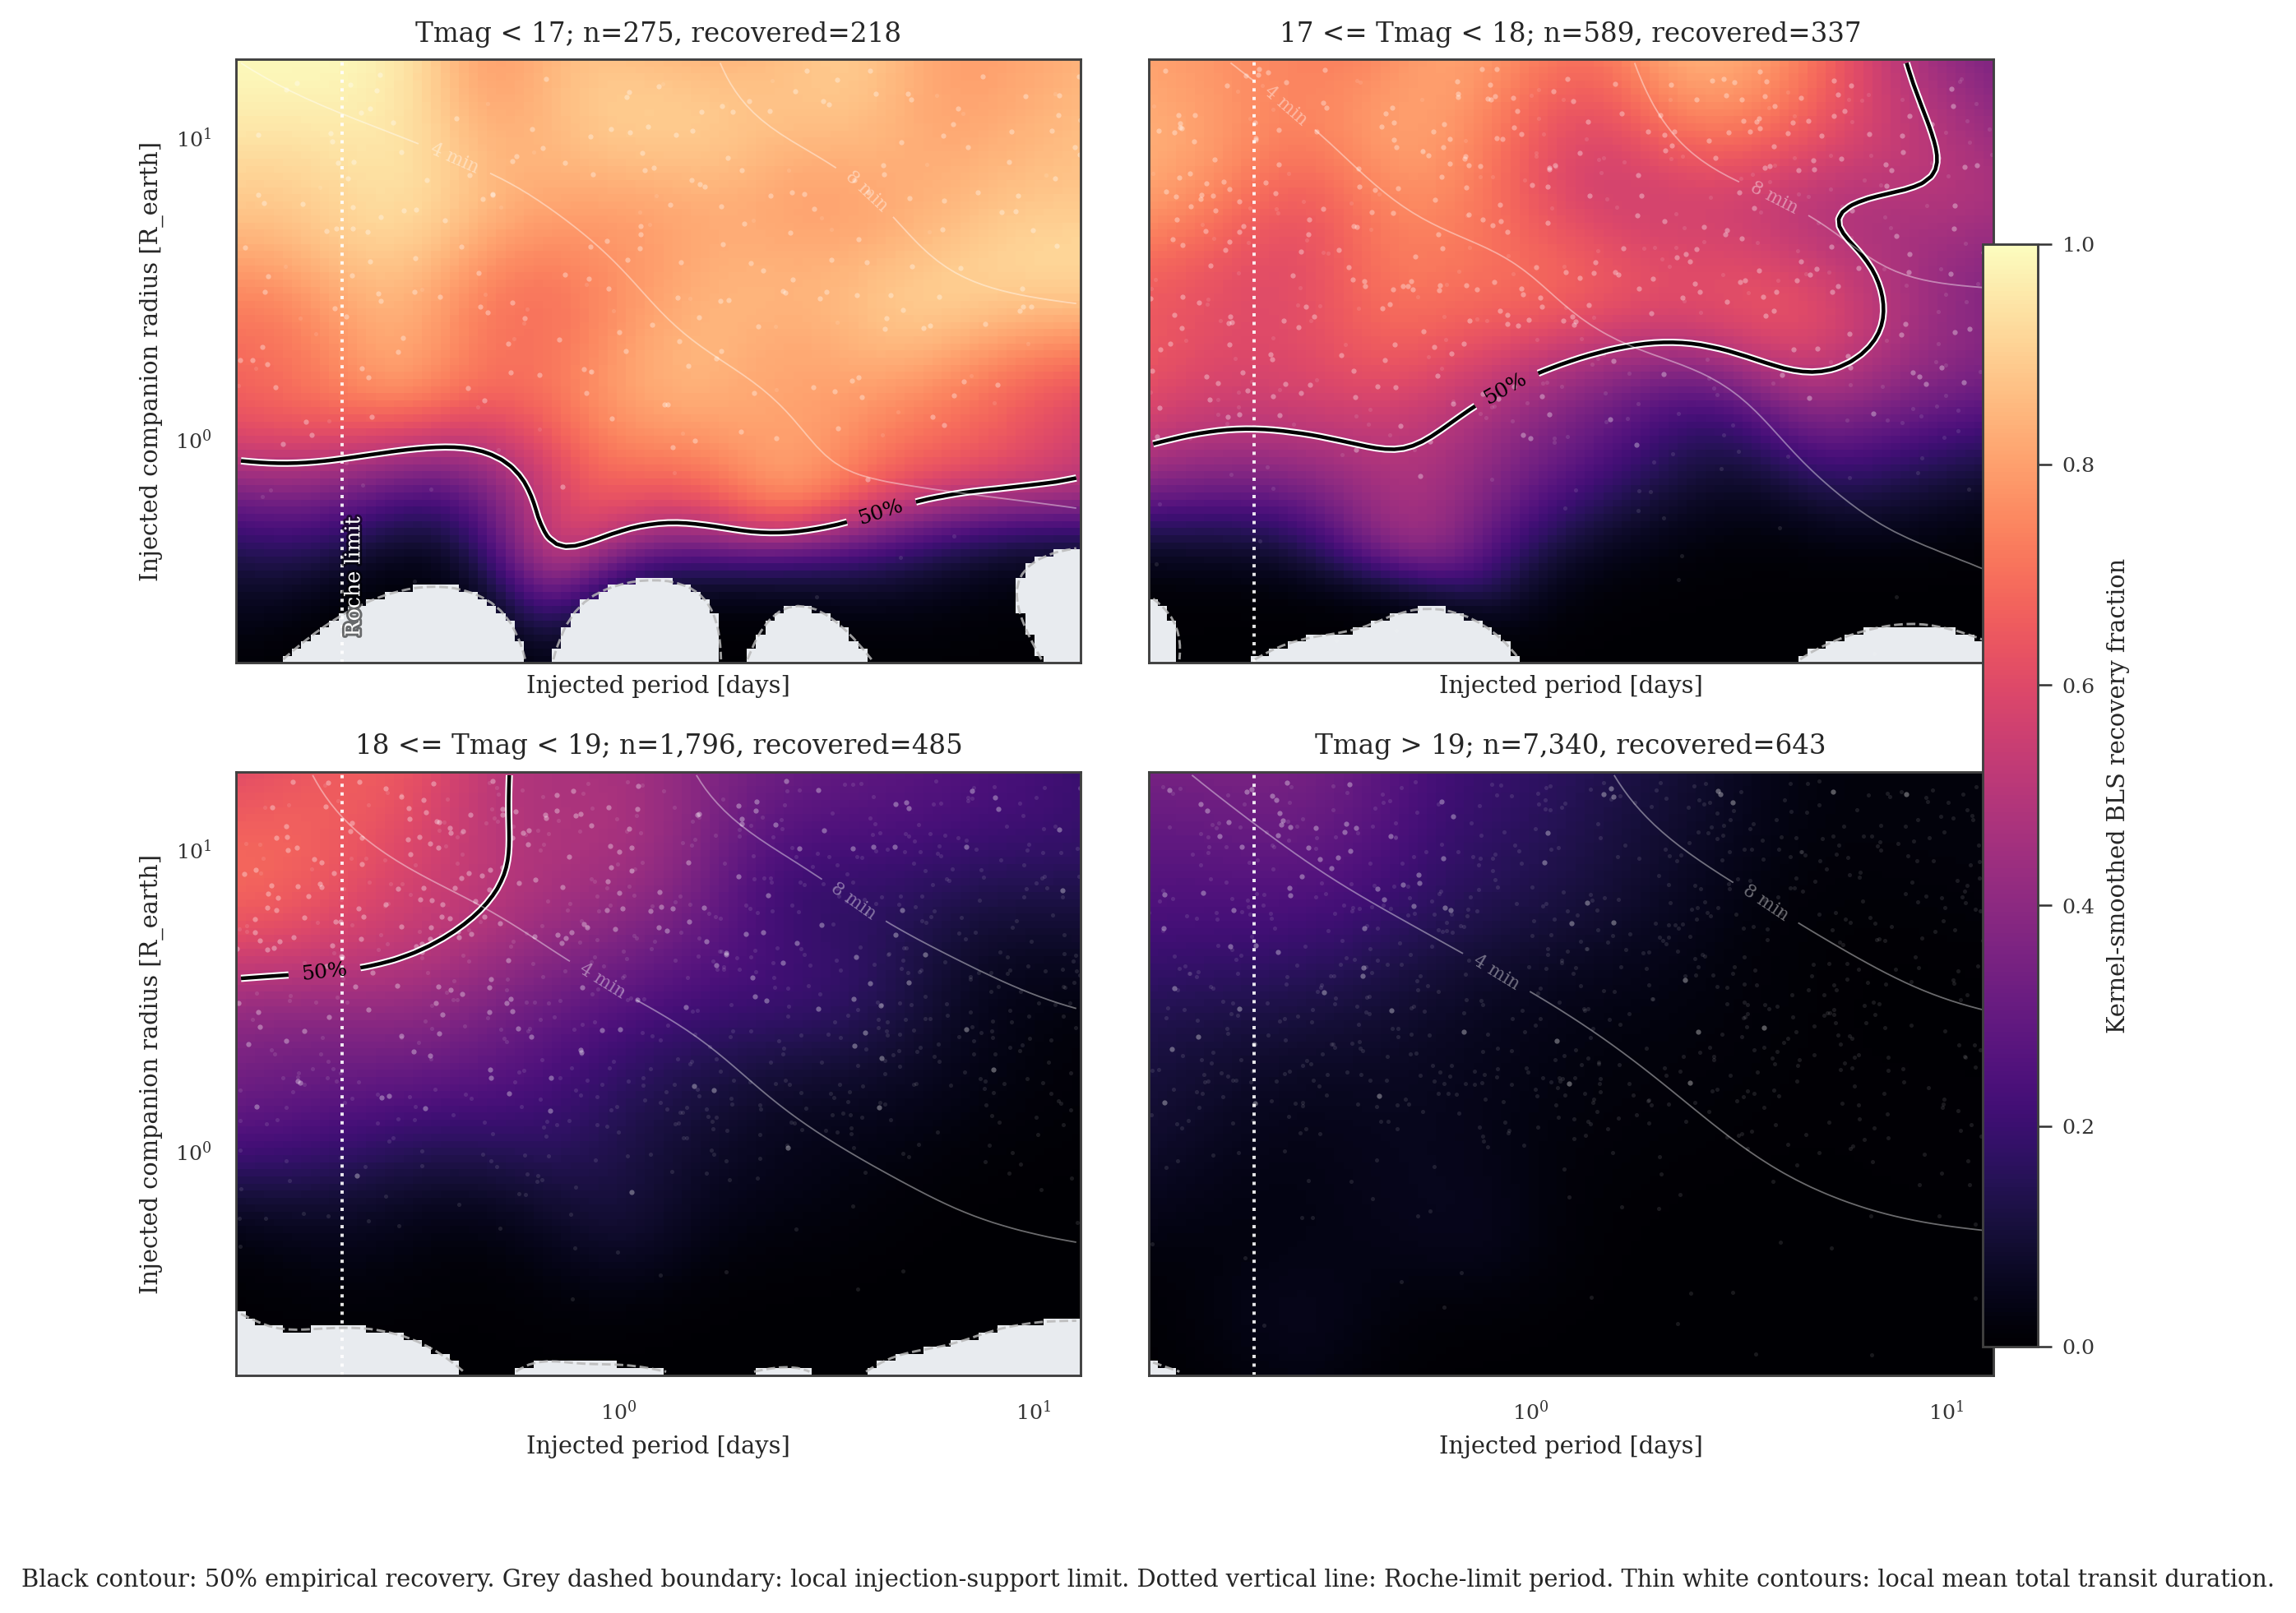
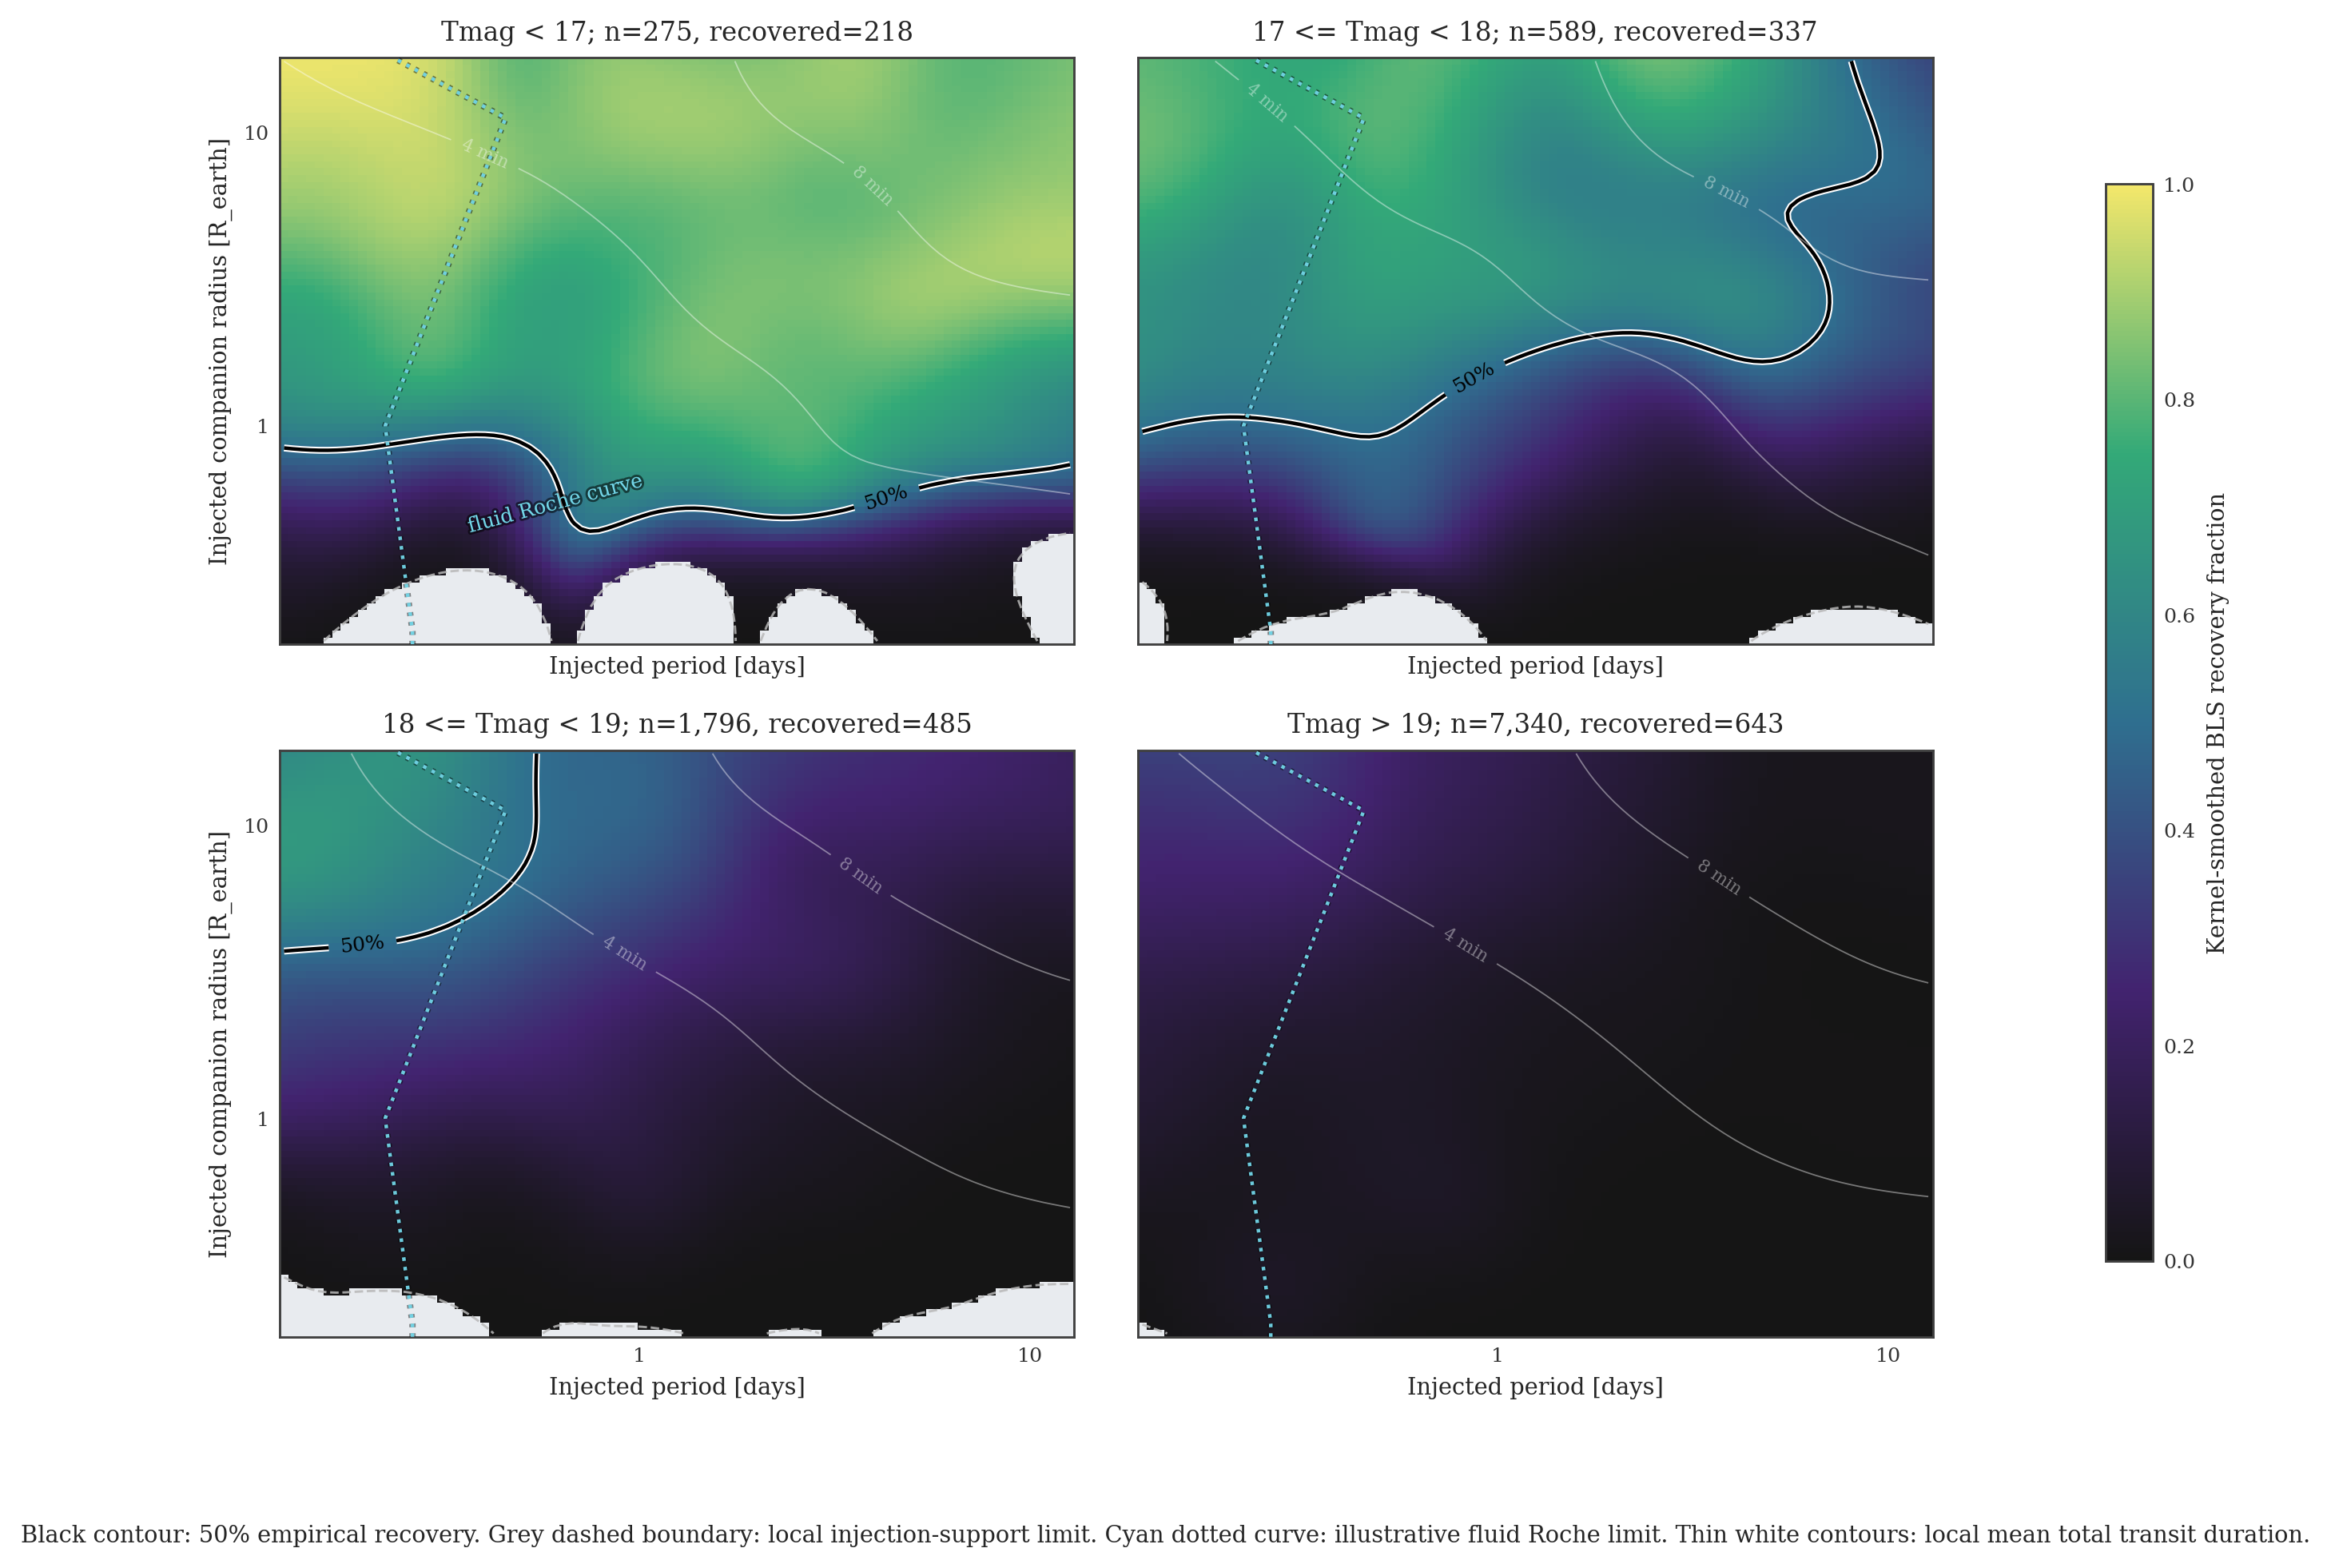
Refine physical recovery map styling

diff --git a/scripts/stage5_validation/plot_s56_duration_aware_recovery.py b/scripts/stage5_validation/plot_s56_duration_aware_recovery.py
@@ -40,6 +40,8 @@ DEFAULT_OUT_DIR = (
     / "reports/stage5_validation/s56_10k_predetrend_dense_bls_map_pdo/"
     / "duration_aware"
 )
+G_SI = 6.67430e-11
+FLUID_ROCHE_COEFFICIENT = 2.44
 
 
 def _json_default(value: Any) -> Any:
@@ -264,6 +266,58 @@ def _finite_minmax(values: np.ndarray) -> tuple[float, float] | None:
     if finite.size == 0:
         return None
     return float(np.nanmin(finite)), float(np.nanmax(finite))
+
+
+def _plain_log_tick(value: float, _pos: int | None = None) -> str:
+    if value <= 0 or not np.isfinite(value):
+        return ""
+    log_value = np.log10(value)
+    if not np.isclose(log_value, round(log_value), atol=1.0e-8):
+        return ""
+    if value < 1.0:
+        return f"{value:g}"
+    return f"{int(round(value))}"
+
+
+def _style_log_panel_ticks(ax: Any) -> None:
+    from matplotlib.ticker import FuncFormatter, LogLocator, NullFormatter
+
+    for axis in (ax.xaxis, ax.yaxis):
+        axis.set_major_locator(LogLocator(base=10.0, subs=(1.0,), numticks=4))
+        axis.set_major_formatter(FuncFormatter(_plain_log_tick))
+        axis.set_minor_locator(LogLocator(base=10.0, subs=np.arange(2, 10) * 0.1, numticks=32))
+        axis.set_minor_formatter(NullFormatter())
+    ax.tick_params(axis="both", which="both", direction="in", top=True, right=True)
+    ax.tick_params(axis="both", which="major", length=5.0, width=0.8)
+    ax.tick_params(axis="both", which="minor", length=2.8, width=0.6)
+
+
+def _approx_companion_density_g_cm3(radius_rearth: np.ndarray) -> np.ndarray:
+    """Illustrative density envelope used only for plotting a Roche curve.
+
+    Radius alone does not define a Roche limit. This envelope keeps small
+    bodies rocky, lowers the density toward Jupiter-like radii, and lets it
+    rise mildly into the brown-dwarf-radius regime.
+    """
+
+    radius = np.asarray(radius_rearth, dtype=float)
+    density = np.empty_like(radius)
+    rocky = radius <= 1.0
+    giant = (radius > 1.0) & (radius <= 11.2)
+    brown_dwarf = radius > 11.2
+
+    density[rocky] = 5.5 * np.clip(radius[rocky], 0.2, None) ** 0.2
+    density[giant] = 5.5 * radius[giant] ** (np.log(1.33 / 5.5) / np.log(11.2))
+    density[brown_dwarf] = 1.33 * (radius[brown_dwarf] / 11.2) ** (
+        np.log(5.0 / 1.33) / np.log(18.0 / 11.2)
+    )
+    return density
+
+
+def _fluid_roche_period_d(radius_rearth: np.ndarray) -> np.ndarray:
+    density_kg_m3 = _approx_companion_density_g_cm3(radius_rearth) * 1000.0
+    period_s = np.sqrt(3.0 * np.pi * FLUID_ROCHE_COEFFICIENT**3 / (G_SI * density_kg_m3))
+    return period_s / 86400.0
 
 
 def _kernel_recovery_surface_logxy(
@@ -588,6 +642,7 @@ def plot_publication_period_radius_recovery_map(df: pd.DataFrame, out_dir: Path)
     matplotlib.use("Agg")
     import matplotlib.pyplot as plt
     import matplotlib.patheffects as pe
+    from matplotlib.colors import LinearSegmentedColormap
 
     apply_twirl_style("full_page")
     tmag_bins = [
@@ -603,11 +658,17 @@ def plot_publication_period_radius_recovery_map(df: pd.DataFrame, out_dir: Path)
     sigma_period_dex = 0.16
     sigma_radius_dex = 0.18
 
-    cmap = plt.get_cmap("magma").copy()
+    cmap = LinearSegmentedColormap.from_list(
+        "twirl_recovery",
+        ["#151515", "#42236f", "#2f6f8f", "#33a978", "#f3e76b"],
+        N=256,
+    )
     cmap.set_bad("#e8ebef")
     fig, axes = plt.subplots(2, 2, figsize=(10.4, 8.1), sharex=True, sharey=True)
     mesh = None
     rows: list[dict[str, Any]] = []
+    roche_radius = np.geomspace(radius_edges[0], radius_edges[-1], 320)
+    roche_period = _fluid_roche_period_d(roche_radius)
     for idx, (label, mask) in enumerate(tmag_bins):
         ax = axes.ravel()[idx]
         sub = df[mask].copy()
@@ -618,7 +679,17 @@ def plot_publication_period_radius_recovery_map(df: pd.DataFrame, out_dir: Path)
         ax.set_yscale("log")
         ax.set_xlim(period_edges[0], period_edges[-1])
         ax.set_ylim(radius_edges[0], radius_edges[-1])
-        ax.axvline(0.216, color="white", linestyle=":", linewidth=1.1, alpha=0.90)
+        _style_log_panel_ticks(ax)
+        roche_line = ax.plot(
+            roche_period,
+            roche_radius,
+            color="#72d6e8",
+            linestyle=":",
+            linewidth=1.25,
+            alpha=0.95,
+            zorder=5,
+        )[0]
+        roche_line.set_path_effects([pe.Stroke(linewidth=2.2, foreground="black", alpha=0.45), pe.Normal()])
         if sub.empty:
             continue
         surface, effective_n, mean_duration = _kernel_recovery_surface_logxy(
@@ -641,26 +712,6 @@ def plot_publication_period_radius_recovery_map(df: pd.DataFrame, out_dir: Path)
             vmin=0.0,
             vmax=1.0,
             shading="auto",
-        )
-        sample = sub.sample(n=min(900, len(sub)), random_state=560 + idx)
-        recovered = sample["any_exact_or_harmonic_recovered"].fillna(False).astype(bool)
-        ax.scatter(
-            sample.loc[~recovered, "truth_period_d"],
-            sample.loc[~recovered, "plot_radius_rearth"],
-            s=2.0,
-            c="white",
-            alpha=0.10,
-            linewidths=0,
-            rasterized=True,
-        )
-        ax.scatter(
-            sample.loc[recovered, "truth_period_d"],
-            sample.loc[recovered, "plot_radius_rearth"],
-            s=3.0,
-            c="white",
-            alpha=0.34,
-            linewidths=0,
-            rasterized=True,
         )
         if finite_masked is not None and finite_masked[0] <= 0.5 <= finite_masked[1]:
             contour = ax.contour(
@@ -728,26 +779,28 @@ def plot_publication_period_radius_recovery_map(df: pd.DataFrame, out_dir: Path)
     for ax in axes[:, 0]:
         ax.set_ylabel("Injected companion radius [R_earth]")
     roche_label = axes[0, 0].text(
-        0.219,
-        0.22,
-        "Roche limit",
-        rotation=90,
+        0.36,
+        0.42,
+        "fluid Roche curve",
+        rotation=15,
         ha="left",
         va="bottom",
-        color="white",
+        color="#72d6e8",
         fontsize=7,
     )
     roche_label.set_path_effects([pe.Stroke(linewidth=1.6, foreground="black", alpha=0.55), pe.Normal()])
     if mesh is not None:
-        cbar = fig.colorbar(mesh, ax=axes.ravel().tolist(), fraction=0.032, pad=0.018)
+        cax = fig.add_axes([0.935, 0.205, 0.022, 0.64])
+        cbar = fig.colorbar(mesh, cax=cax)
         cbar.set_label("Kernel-smoothed BLS recovery fraction")
-    fig.subplots_adjust(left=0.09, right=0.88, top=0.92, bottom=0.16, wspace=0.08, hspace=0.18)
+        cbar.ax.tick_params(direction="in", which="both")
+    fig.subplots_adjust(left=0.09, right=0.855, top=0.92, bottom=0.16, wspace=0.08, hspace=0.18)
     fig.text(
         0.5,
         0.035,
         (
             "Black contour: 50% empirical recovery. Grey dashed boundary: local injection-support limit. "
-            "Dotted vertical line: Roche-limit period. Thin white contours: local mean total transit duration."
+            "Cyan dotted curve: illustrative fluid Roche limit. Thin white contours: local mean total transit duration."
         ),
         ha="center",
         va="bottom",
@@ -1329,7 +1382,11 @@ def write_summary(
             "",
             "The fitted 50% boundary uses a physically constrained BLS proxy, `R_p^2 * sqrt(duration / period)`, plus `Tmag`. This gives a monotonic radius cutoff in period-duration space and avoids over-interpreting the correlated period-duration-radius sampling as independent physics.",
             "",
-            "The empirical publication map now uses four Tmag panels (`<17`, `17-18`, `18-19`, `>19`) and marginalizes over duration/impact parameter within each slice. Grey cells mean the kernel has too little local injection support; the grey dashed curve is the support boundary; the dotted vertical line marks the Roche-limit period; the black 50% contour is the empirical recovery boundary. Thin white contours are the local mean total transit duration in minutes for the accepted BATMAN injections, not an independent analytic edge-on duration curve.",
+            "The empirical publication map now uses four Tmag panels (`<17`, `17-18`, `18-19`, `>19`) and marginalizes over duration/impact parameter within each slice. Grey cells mean the kernel has too little local injection support; the grey dashed curve is the support boundary; the cyan dotted curve is an illustrative fluid Roche limit; the black 50% contour is the empirical recovery boundary. Thin white contours are the local mean total transit duration in minutes for the accepted BATMAN injections, not an independent analytic edge-on duration curve.",
+            "",
+            "The Roche curve is model-dependent because companion radius does not uniquely define companion density. The plotted curve uses a simple bulk-density envelope: rocky bodies at small radii, lower-density gas giants near Jupiter radius, and a mild density increase into the brown-dwarf-radius regime. It should be read as physical context, not a hard vetting threshold.",
+            "",
+            "The earlier small grey point overlay was only a random subsample of injected examples (`faint = missed`, `brighter = recovered`) drawn on top of the smoothed surface. It is removed from the publication-facing map because the support boundary and grid CSV carry the sample-support information more cleanly.",
             "",
             "Counts in the paper-style Tmag panels show whether the map is target-distribution-limited or bright-balanced:",
             "",

diff --git a/reports/stage5_validation/s56_10k_predetrend_dense_bls_map_pdo/duration_aware/summary.md b/reports/stage5_validation/s56_10k_predetrend_dense_bls_map_pdo/duration_aware/summary.md
@@ -18,7 +18,11 @@ LEO comparison input: `reports/stage5_validation/s56_10k_predetrend_small_pair_2
 
 The fitted 50% boundary uses a physically constrained BLS proxy, `R_p^2 * sqrt(duration / period)`, plus `Tmag`. This gives a monotonic radius cutoff in period-duration space and avoids over-interpreting the correlated period-duration-radius sampling as independent physics.
 
-The empirical publication map now uses four Tmag panels (`<17`, `17-18`, `18-19`, `>19`) and marginalizes over duration/impact parameter within each slice. Grey cells mean the kernel has too little local injection support; the grey dashed curve is the support boundary; the dotted vertical line marks the Roche-limit period; the black 50% contour is the empirical recovery boundary. Thin white contours are the local mean total transit duration in minutes for the accepted BATMAN injections, not an independent analytic edge-on duration curve.
+The empirical publication map now uses four Tmag panels (`<17`, `17-18`, `18-19`, `>19`) and marginalizes over duration/impact parameter within each slice. Grey cells mean the kernel has too little local injection support; the grey dashed curve is the support boundary; the cyan dotted curve is an illustrative fluid Roche limit; the black 50% contour is the empirical recovery boundary. Thin white contours are the local mean total transit duration in minutes for the accepted BATMAN injections, not an independent analytic edge-on duration curve.
+
+The Roche curve is model-dependent because companion radius does not uniquely define companion density. The plotted curve uses a simple bulk-density envelope: rocky bodies at small radii, lower-density gas giants near Jupiter radius, and a mild density increase into the brown-dwarf-radius regime. It should be read as physical context, not a hard vetting threshold.
+
+The earlier small grey point overlay was only a random subsample of injected examples (`faint = missed`, `brighter = recovered`) drawn on top of the smoothed surface. It is removed from the publication-facing map because the support boundary and grid CSV carry the sample-support information more cleanly.
 
 Counts in the paper-style Tmag panels show whether the map is target-distribution-limited or bright-balanced:
 

diff --git a/reports/stage5_validation/s56_20k_predetrend_physical_bright_bls_map_pdo/duration_aware/summary.md b/reports/stage5_validation/s56_20k_predetrend_physical_bright_bls_map_pdo/duration_aware/summary.md
@@ -18,7 +18,11 @@ LEO comparison input: `reports/stage5_validation/s56_10k_predetrend_small_pair_2
 
 The fitted 50% boundary uses a physically constrained BLS proxy, `R_p^2 * sqrt(duration / period)`, plus `Tmag`. This gives a monotonic radius cutoff in period-duration space and avoids over-interpreting the correlated period-duration-radius sampling as independent physics.
 
-The empirical publication map now uses four Tmag panels (`<17`, `17-18`, `18-19`, `>19`) and marginalizes over duration/impact parameter within each slice. Grey cells mean the kernel has too little local injection support; the grey dashed curve is the support boundary; the dotted vertical line marks the Roche-limit period; the black 50% contour is the empirical recovery boundary. Thin white contours are the local mean total transit duration in minutes for the accepted BATMAN injections, not an independent analytic edge-on duration curve.
+The empirical publication map now uses four Tmag panels (`<17`, `17-18`, `18-19`, `>19`) and marginalizes over duration/impact parameter within each slice. Grey cells mean the kernel has too little local injection support; the grey dashed curve is the support boundary; the cyan dotted curve is an illustrative fluid Roche limit; the black 50% contour is the empirical recovery boundary. Thin white contours are the local mean total transit duration in minutes for the accepted BATMAN injections, not an independent analytic edge-on duration curve.
+
+The Roche curve is model-dependent because companion radius does not uniquely define companion density. The plotted curve uses a simple bulk-density envelope: rocky bodies at small radii, lower-density gas giants near Jupiter radius, and a mild density increase into the brown-dwarf-radius regime. It should be read as physical context, not a hard vetting threshold.
+
+The earlier small grey point overlay was only a random subsample of injected examples (`faint = missed`, `brighter = recovered`) drawn on top of the smoothed surface. It is removed from the publication-facing map because the support boundary and grid CSV carry the sample-support information more cleanly.
 
 Counts in the paper-style Tmag panels show whether the map is target-distribution-limited or bright-balanced:
 

diff --git a/doc/twirl_progress_log.md b/doc/twirl_progress_log.md
@@ -358,6 +358,7 @@ _No entries yet. Blocked on photometric QA (1.6)._
 - `2026-06-24`: Revised the paper-style period-radius empirical map to a `2 x 2` Tmag split (`<17`, `17-18`, `18-19`, `>19`) and documented that the thin white contours are local mean total transit duration for accepted BATMAN injections, not a separate analytic edge-on curve. The current `10k` table is still sparse in the bright panels (`275` rows at `Tmag < 17`, `589` at `17-18`), so this is now the audit/preview plot rather than the final publication map.
 - `2026-06-24`: Added target-bin sampling controls to the pre-detrend injector and a new PDO launcher [script](../scripts/stage5_validation/run_s56_predetrend_physical_bright_bls_map_pdo.sh) for the publication-grade map. The active PDO tmux job `twirl-s56-physical-bright-0624` is building `20,000` raw-flux pre-detrend BATMAN injections on a period-radius grid with transit-conditioned random impact parameters/inclinations, equal target sampling across `<17`, `17-18`, `18-19`, and `>19`, and the same small-pair `200k` BLS recovery path. To avoid PDO NFS full-tree walks, the run uses cached source HDF5 paths and a cached TIC/Tmag table derived from the previous `10k` injection manifest. Early log check: target bins have `226`, `458`, `1400`, and `5709` available cached targets with equal draw probability; injection creation reached at least `400/20,000` accepted rows with no failed attempts on `pdogpu6`, then was moved to `pdogpu1` because `pdogpu6` was jammed. The first `pdogpu1` attempt was stopped at `~1,700/20,000` when a metadata audit found period-radius injections were recording central depth instead of impact-parameter-dependent geometric depth; the BATMAN light curves themselves were already impact-parameter aware. The corrected run restarted on `pdogpu1` at `2026-06-24T11:21:07-04:00` after deploying the depth-truth fix. Active remote log: `/pdo/users/tehan/TWIRL/logs/s56_predetrend_physical_bright_bls_map_pdo_pdogpu1.log`.
 - `2026-06-24`: Completed the bright-balanced physical `20k` PDO run on `pdogpu1`. Injection creation accepted `20,000/20,000` BATMAN period-radius-grid rows with transit-conditioned random impact parameters/inclinations; the BLS pass ran as `200` restartable chunks using `6` concurrent chunk jobs and merged cleanly into [recovery table](../reports/stage5_validation/s56_20k_predetrend_physical_bright_bls_map_pdo/small_pair_200k/injection_bls_recoveries.csv) with `20,000` rows. Final BLS modes: `7,227` strict top-1 recoveries, `296` exact top-N recoveries, `387` top-N harmonic matches, `12,089` peak mismatches, and `1` too-few-cadences row (`7,910/20,000 = 39.6%` exact/top-N/harmonic total). Tmag-bin counts are now balanced: `<17`: `5,020` rows / `3,154` recovered (`62.8%`), `17-18`: `4,994` / `2,273` (`45.5%`), `18-19`: `5,026` / `1,625` (`32.3%`), `>19`: `4,960` / `858` (`17.3%`). The publication-facing [period-radius map](../reports/stage5_validation/s56_20k_predetrend_physical_bright_bls_map_pdo/duration_aware/period_radius_empirical_recovery_publication.png) removes the sparse bright-panel problem from the `10k` preview and explains the black 50% contour, Roche-limit line, support boundary, and local-duration contours in the footer. The local sync helper now excludes per-chunk scratch directories, leaving compact merged products and plots.
+- `2026-06-24`: Refined the paper-facing period-radius recovery map styling after visual review. The updated [20k PNG](../reports/stage5_validation/s56_20k_predetrend_physical_bright_bls_map_pdo/duration_aware/period_radius_empirical_recovery_publication.png) moves the colorbar clear of the panels, removes the previous random injection-point overlay, uses inward major/minor log ticks with plain `1` and `10` labels, switches to a custom dark-purple/teal/green/yellow recovery colormap, and replaces the single vertical Roche-period marker with an illustrative fluid-Roche curve based on an explicit radius-dependent density envelope. The matching [10k preview](../reports/stage5_validation/s56_10k_predetrend_dense_bls_map_pdo/duration_aware/period_radius_empirical_recovery_publication.png) was re-rendered with the same code path for consistency.
 
 **Next:** Human-check the current `1k` LEO-only injection queue, port the `wd_review_high_purity` preset into the WD LEO fork as an explicit review class for a PDO smoke rerun, and build the compact S56 TWIRL-FS v2 export for ORCD/H200. Do not start large-scale human labels or teacher-model training until BLS recovery, LEO class/review class, and human labels are kept as distinct provenance columns.
 